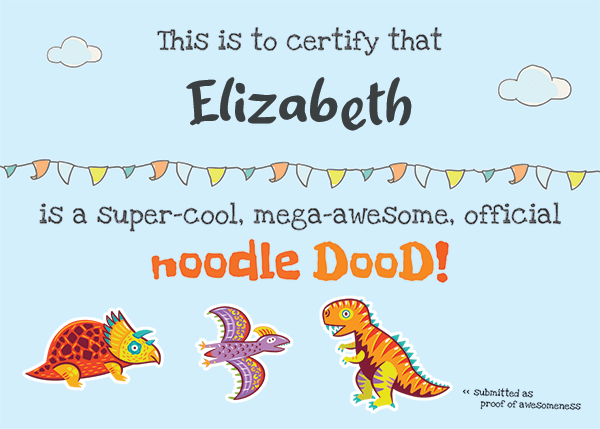
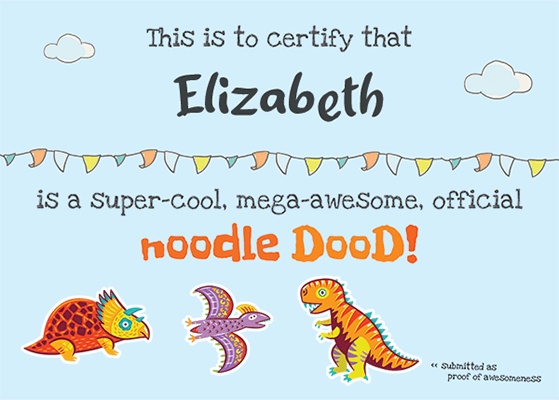
downsampling images and fixing dumb stuff

diff --git a/portfolio.html b/portfolio.html
@@ -17,7 +17,7 @@
   <body>
     <nav>
         <div class="nav-bar" id="nav-bar">
-          <div class="icon"><i class="fas fa-dragon"></i></div>
+          <div class="icon"><a href="index.html"><i class="fas fa-dragon"></i></a></div>
           <button class="hamburger" id="hamburger">
             <i class="fas fa-bars"></i>
           </button>
@@ -163,7 +163,7 @@
 <!-- Project 5 -->
 <div class="port-modalbox">
   <div class="project">
-    <button class="port-open" id="portopen5"><img src="img/DXP open house logo.png" alt=""><div class="blurb"><h6>Digital XPress Open House Logo & Invitations</h6><p>Logo & mailer series for a printing open house event.</p><p><i>Branding & Graphic Design</i></p></div></button>
+    <button class="port-open" id="portopen5"><img src="img/DXP open house logo.png" alt=""><div class="blurb"><h6>Digital XPress Open House Logo & Invitations</h6><p>Logo & mailer series for a printing open house event. (Concept project; open house was delayed due to COVID-19.)</p><p><i>Branding & Graphic Design</i></p></div></button>
   </div>
 <div class="port-modal-container" id="portmodalcontainer5">
   <div class="port-modal-inner"><div class="pmi-p"><h6>Digital XPress Open House Logo & Invitations</h6>
@@ -201,7 +201,7 @@
     </div>
     <script src="js/portfolio.js"></script>
     <div class="footer">
-        <p>Copyright 2020 Sarah Hodges</p>
+        <p>© Copyright 2020 Sarah Hodges</p>
       </div>
     </body>
   </html>

diff --git a/resume.html b/resume.html
@@ -17,7 +17,7 @@
   <body>
     <nav>
       <div class="nav-bar" id="nav-bar">
-        <div class="icon"><i class="fas fa-dragon"></i></div>
+        <div class="icon"><a href="index.html"><i class="fas fa-dragon"></i></a></div>
         <button class="hamburger" id="hamburger">
           <i class="fas fa-bars"></i>
         </button>
@@ -150,7 +150,7 @@ of direct mail campaigns to meet customer goals while maximizing profitability.
     </div>
 
     <div class="footer">
-      <p>Copyright 2020 Sarah Hodges</p>
+      <p>© Copyright 2020 Sarah Hodges</p>
     </div>
   </body>
 </html>

diff --git a/index.html b/index.html
@@ -17,7 +17,7 @@
   <body>
     <nav>
       <div class="nav-bar" id="nav-bar">
-        <div class="icon"><i class="fas fa-dragon"></i></div>
+        <div class="icon"><a href="index.html"><i class="fas fa-dragon"></i></a></div>
         <button class="hamburger" id="hamburger">
           <i class="fas fa-bars"></i>
         </button>
@@ -169,7 +169,7 @@
    </div></div>
   <script src="js/script.js"></script>
     <div class="footer">
-      <p>Copyright 2020 Sarah Hodges</p>
+      <p>© Copyright 2020 Sarah Hodges</p>
     </div>
   </body>
 </html>

diff --git a/contact.html b/contact.html
@@ -17,7 +17,7 @@
   <body>
     <nav>
         <div class="nav-bar" id="nav-bar">
-          <div class="icon"><i class="fas fa-dragon"></i></div>
+          <div class="icon"><a href="index.html"><i class="fas fa-dragon"></i></a></div>
           <button class="hamburger" id="hamburger">
             <i class="fas fa-bars"></i>
           </button>
@@ -32,7 +32,7 @@
       </nav>
 
     <div class="footer">
-        <p>Copyright 2020 Sarah Hodges</p>
+        <p>© Copyright 2020 Sarah Hodges</p>
       </div>
     </body>
   </html>

diff --git a/css/styles.css b/css/styles.css
@@ -670,6 +670,7 @@ button.port-close {
 }
 
 .pmi-b {
+  padding-top: 20px;
   padding-bottom: 50px;
 }
 
@@ -678,9 +679,9 @@ button.port-close {
   pointer-events: auto;
 }
 
-.project h6 {
+/* .project h6 {
   margin-top: 10;
-}
+} */
 
 /* .project {
   display: flex;
@@ -823,7 +824,7 @@ button.port-close {
 
   .blurb {
     text-align: center;
-    padding: 10px 0px 30px 0px;
+    padding: 5px 0px 10px 0px;
   }
 
   .pmi-i {
